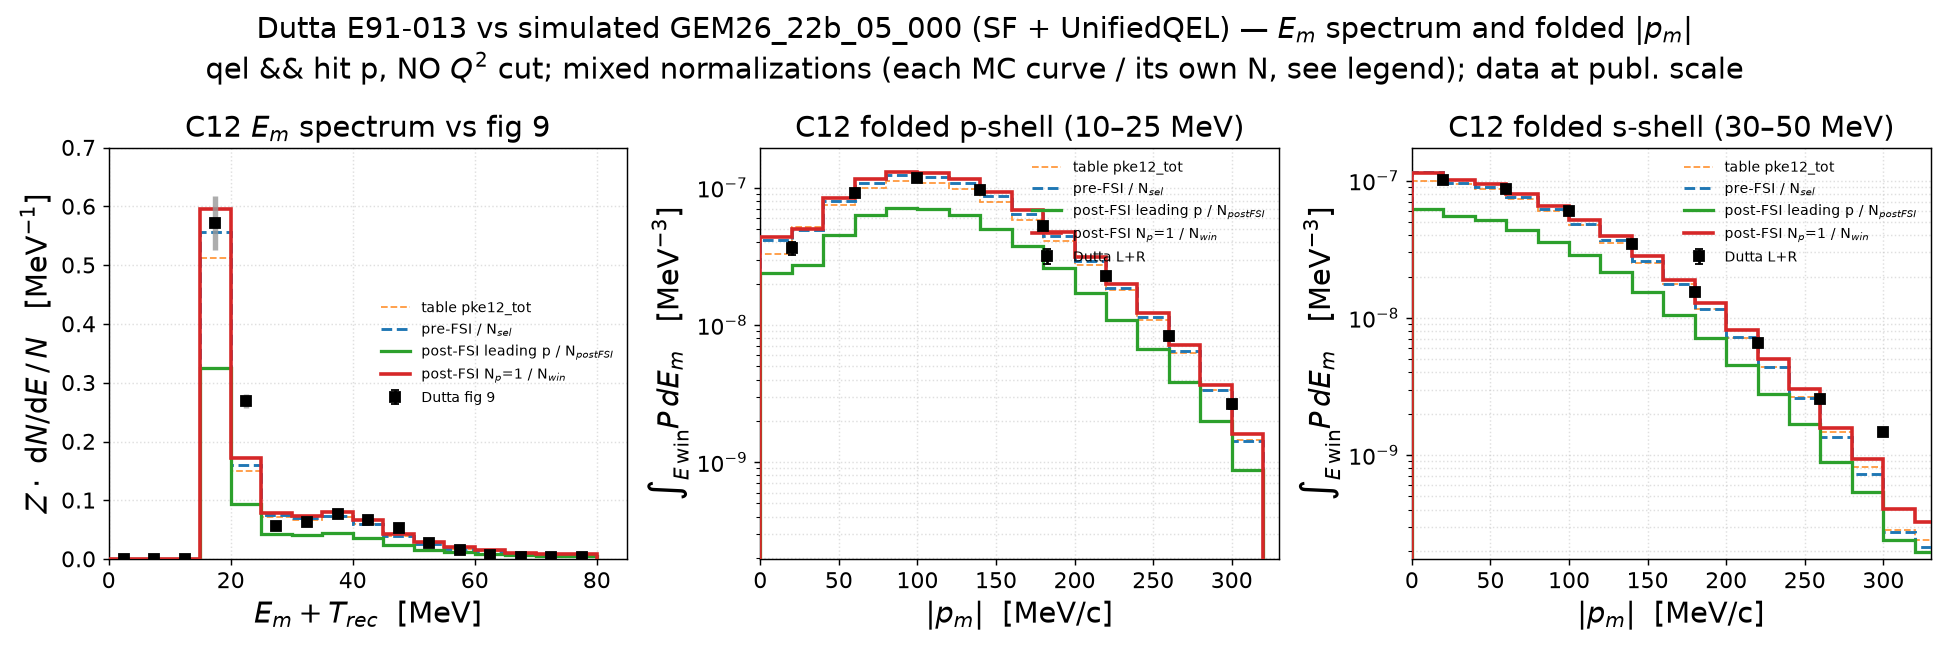
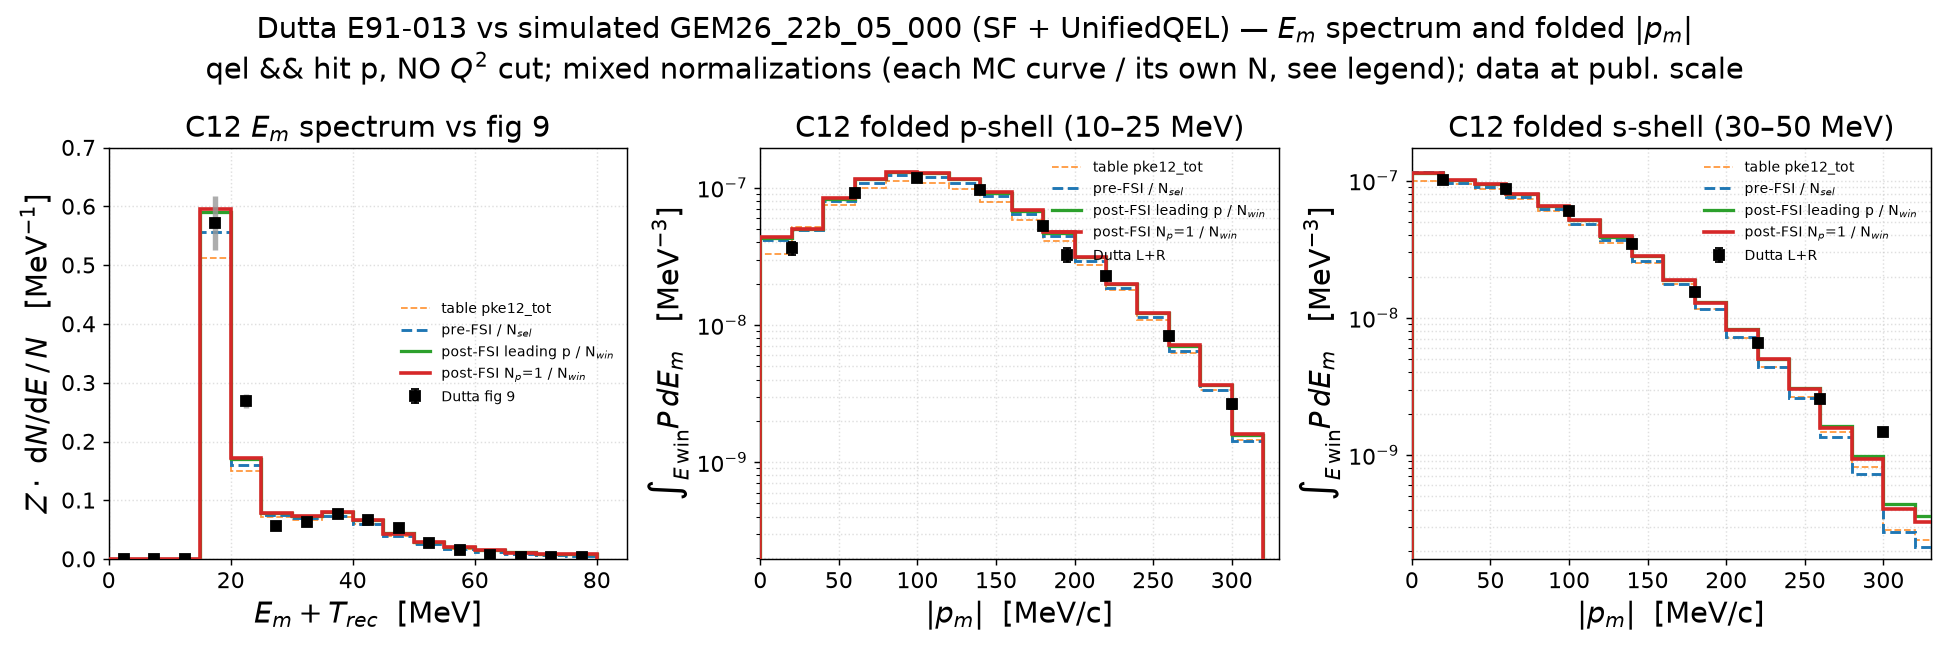
results: v1.0 -- combo: leading-p stage 4 also on its in-window denominator
Both post-FSI curves now / their own N_win (leading 104,758; 1p 103,972):
they are indistinguishable (6.000 both in E, shells 3.85/3.87, 1.33/1.32)
and land on the data -- in-window renormalized, the stage-4 multiplicity
convention drops out entirely.

diff --git a/results/template/make_em_folded_pm_sim.py b/results/template/make_em_folded_pm_sim.py
@@ -283,27 +283,31 @@ def main(tune, nsel_mode, psel):
 
 def main_combo(tune):
     """Mixed normalizations together: table, pre-FSI/N_sel, post-FSI
-    leading p / N_postFSI(leading), post-FSI N_p=1 / N_win(1p)."""
+    leading p / N_win(leading), post-FSI N_p=1 / N_win(1p) — each post
+    stage renormalized by its OWN in-window count."""
     apply_style()
     table_stem, table = load_table()
     c1 = load_cache(tune, "1p")
     cl = load_cache(tune, "leading")
     n_sel = float(c1["n_sel"][0])
-    n_post_l = float(np.isfinite(cl["E4"]).sum())
-    with np.errstate(invalid="ignore"):
-        m4win = (np.isfinite(c1["E4r"]) & (c1["E4r"] >= 0.0)
-                 & (c1["E4r"] < 80.0) & (c1["p4"] < PM_MAX))
-    n_win_1 = float(m4win.sum())
-    print(f"  N_sel={int(n_sel):,}  N_postFSI(leading)={int(n_post_l):,} "
-          f"({n_post_l / n_sel:.3f})  N_win(1p)={int(n_win_1):,} "
+
+    def n_win(c):
+        with np.errstate(invalid="ignore"):
+            m = (np.isfinite(c["E4r"]) & (c["E4r"] >= 0.0)
+                 & (c["E4r"] < 80.0) & (c["p4"] < PM_MAX))
+        return float(m.sum())
+
+    n_win_l, n_win_1 = n_win(cl), n_win(c1)
+    print(f"  N_sel={int(n_sel):,}  N_win(leading)={int(n_win_l):,} "
+          f"({n_win_l / n_sel:.3f})  N_win(1p)={int(n_win_1):,} "
           f"({n_win_1 / n_sel:.3f})")
 
-    # (cache, stage-4 denominator, color, lw, label)
+    # (cache, stage, denominator, color, lw, ls, label)
     CURVES = [
         (c1, 3, n_sel, "C0", 1.6, "--",
          "pre-FSI / N$_{sel}$"),
-        (cl, 4, n_post_l, "C2", 1.8, "-",
-         "post-FSI leading p / N$_{postFSI}$"),
+        (cl, 4, n_win_l, "C2", 1.8, "-",
+         "post-FSI leading p / N$_{win}$"),
         (c1, 4, n_win_1, "C3", 2.0, "-",
          "post-FSI N$_p$=1 / N$_{win}$"),
     ]

diff --git a/results/prd-analyzer-v1.0/electron_c12_scattering.md b/results/prd-analyzer-v1.0/electron_c12_scattering.md
@@ -265,25 +265,23 @@ default proton selection; in-window N = 103,972, 53.3 %):
   convention is irrelevant — the two stage-4 definitions select the same
   in-window events to 0.8 %.
 
-**The conventions side by side** (`--combo`): the three normalizations of
-the preceding variants in one figure — table (thin dashed), pre-FSI /
-N_sel = 195,170 (true occupancy), post-FSI **leading p** / its post-FSI
-count N = 190,858 (the raw-distorted-yield analogue: only the 2.2 %
-proton loss divided out), and post-FSI **N_p = 1** / its in-window count
-N = 103,972 (the full renormalization):
+**The conventions side by side** (`--combo`): table (thin dashed),
+pre-FSI / N_sel = 195,170 (true occupancy), and both post-FSI stage-4
+definitions each renormalized by **its own in-window count** — leading p
+/ N_win = 104,758, N_p = 1 / N_win = 103,972:
 
 ![simulated 22b, mixed normalizations](em_folded_pm_sim_combo_c12_GEM26_22b_05_000.png)
 
-- The three conventions ARE the convention chain of the measurement:
-  blue ≈ table = the undistorted spectral function; green = the distorted
-  yield on the per-selected-event scale (E-panel strength 3.29 of Z = 6,
-  the ≈ 0.55 raw-scale suppression the normalization page predicted a
-  distorted, un-renormalized S^D would show); red = the same survivors
-  renormalized in-window to Z = 6.000, landing on the data (6.080) in
-  every projection.
-- Green → red is a nearly pure scale factor (×1.81–1.84 across the three
-  panels — the two stage-4 definitions coincide in-window); that gap is
-  what Dutta's full-occupancy renormalization absorbed.
+- The two renormalized post-FSI curves are **indistinguishable** (E-panel
+  strength 6.000 both, by construction; p-shell 3.85 vs 3.87; s-shell
+  1.33 vs 1.32 — green hides under red everywhere): in-window
+  renormalized, the stage-4 multiplicity convention is irrelevant, and
+  both land on the data (6.080; 3.53; 1.39) in every projection.
+- Against the undistorted references (blue ≈ thin-dashed table), the
+  figure isolates what survives the full distort-then-renormalize chain:
+  a slight peak sharpening in E_m (0.60 vs 0.55 at the peak) and the
+  small in-window reshuffles in the shells — everything else about FSI
+  is absorbed into the divided-out scale.
 
 Regenerate:
 `pixi run python results/template/make_em_folded_pm_sim.py` (default
